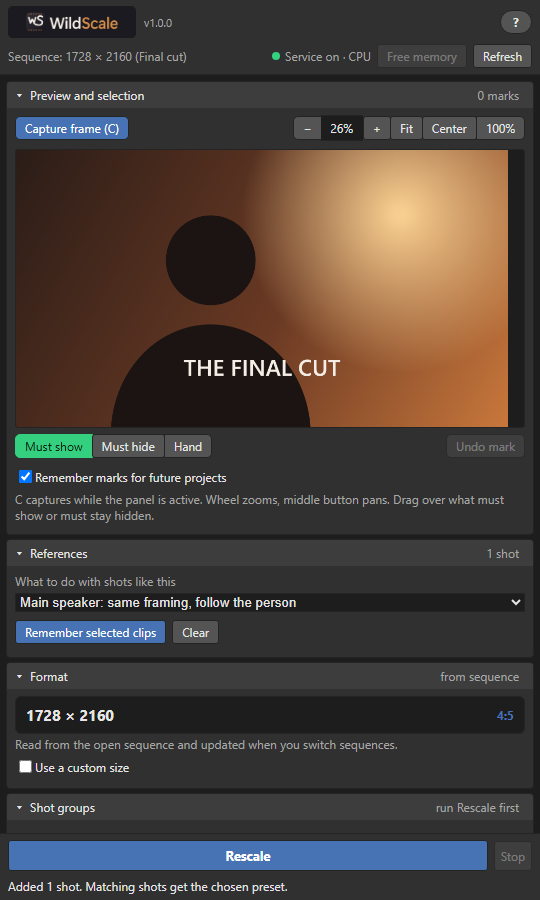
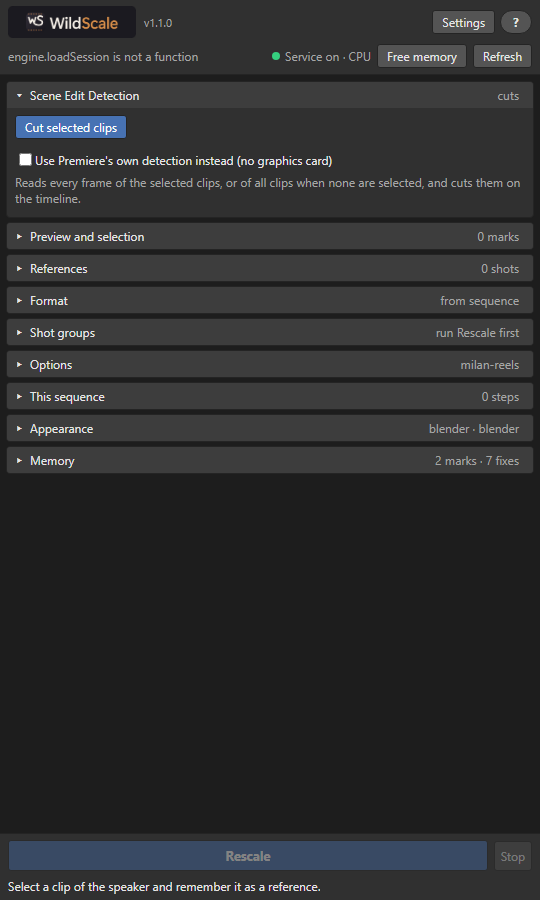
Update README for WildScale 1.1.0

diff --git a/README.md b/README.md
@@ -5,7 +5,7 @@
 <p align="center"><strong>Frame one shot. We'll do the rest.</strong></p>
 
 <p align="center">
-  <a href="https://github.com/GSK95/WildScale/releases/download/1.0.0/WildScaleSetup.exe">Download for Windows</a> ·
+  <a href="https://github.com/GSK95/WildScale/releases/download/1.1.0/WildScaleSetup-1.1.0.exe">Download for Windows</a> ·
   <a href="https://gsk95.github.io/WildScale/">Website</a> ·
   <a href="https://gsk95.github.io/WildScale/guide.html">User guide</a> ·
   <a href="https://gsk95.github.io/WildScale/privacy.html">Privacy</a>
@@ -14,30 +14,34 @@
 WildScale is a panel for Adobe Premiere Pro that reframes a horizontal edit for Reels and other vertical formats. You frame a shot once, and WildScale carries that framing through the rest of your timeline, clip by clip, while you watch it happen.
 
 <p align="center">
-  <img src="assets/panel.png" alt="The WildScale panel with a captured frame, references and format" width="360" />
+  <img src="assets/panel.png" alt="The WildScale panel with Scene Edit Detection open" width="360" />
 </p>
 
 ## What it does
 
+- **Finds every cut.** Reads each frame, on your graphics card when the format allows it, and cuts video and audio on the timeline.
 - **Knows your speaker.** Set the framing once and matching shots across your cuts follow it.
 - **Keeps titles whole.** Text that would leave the crop gets a small move or a clean two-layer back blur.
+- **Pastes your framing.** Matching shots get your exact Scale and Position, and you can copy them onto any selection.
 - **Works in your open sequence.** Clips change live on the timeline, with no new sequences, and you can stop whenever you like.
 - **Follows motion.** With FFmpeg installed, WildScale finds changes inside long clips and plans each take on its own.
-- **Groups your shots.** Find and select speakers, titles and graphics from the panel.
+- **Groups your shots.** Colors speakers, titles and graphics on the timeline, with a grid of takes to check.
+- **Remembers each sequence.** References, groups and history return when you select it, and a new reference only reworks the clips it touches.
 - **Learns from your fixes.** It remembers the corrections you make and uses them on later runs.
+- **Works within your memory.** Settings checks your system and adjusts to the memory Premiere leaves free.
 - **Stays on your computer.** Frames are analyzed locally. Your footage is never uploaded.
 
 ## Requirements
 
 - Adobe Premiere Pro 25.0 to 25.9, or 26.5.2 and later
 - Windows 10 or 11, 64-bit
-- FFmpeg, only for motion detection
+- FFmpeg, for frame-exact cut detection and motion detection
 
 Premiere Pro 26.0 to 26.5.1 is not supported. A graphics card helps but is not required.
 
 ## Install
 
-1. Download [`WildScaleSetup.exe`](https://github.com/GSK95/WildScale/releases/download/1.0.0/WildScaleSetup.exe). You do not need administrator rights.
+1. Download [`WildScaleSetup-1.1.0.exe`](https://github.com/GSK95/WildScale/releases/download/1.1.0/WildScaleSetup-1.1.0.exe). You do not need administrator rights.
 2. Run it and restart Premiere Pro.
 3. Open the panel from the Window menu:
    - Premiere Pro 26.5.2 and later: **UXP Plugins**
@@ -48,15 +52,16 @@ The installer also adds a small launcher that runs when you sign in to Windows. 
 ## Quick start
 
 1. Duplicate your sequence if you want to keep the original. WildScale changes the open sequence directly.
-2. Frame one shot of your speaker by hand and select that clip.
-3. In **References**, leave the preset on **Main speaker** and click **Remember selected clips**.
-4. Click **Rescale**.
+2. Select your raw clip and click **Cut selected clips**.
+3. Frame one shot of your speaker by hand and select that clip.
+4. In **References**, pick a preset and click **Remember selected clips**.
+5. Click **Rescale**.
 
 The [user guide](https://gsk95.github.io/WildScale/guide.html) covers every part of the panel and troubleshooting.
 
 ## Status
 
-WildScale 1.0.0 is a pre-release. To report a problem, email [drugela.music@gmail.com](mailto:drugela.music@gmail.com).
+WildScale 1.1.0 is a pre-release. To report a problem, email [drugela.music@gmail.com](mailto:drugela.music@gmail.com).
 
 Downloads are on the [Releases](https://github.com/GSK95/WildScale/releases) page.
 
